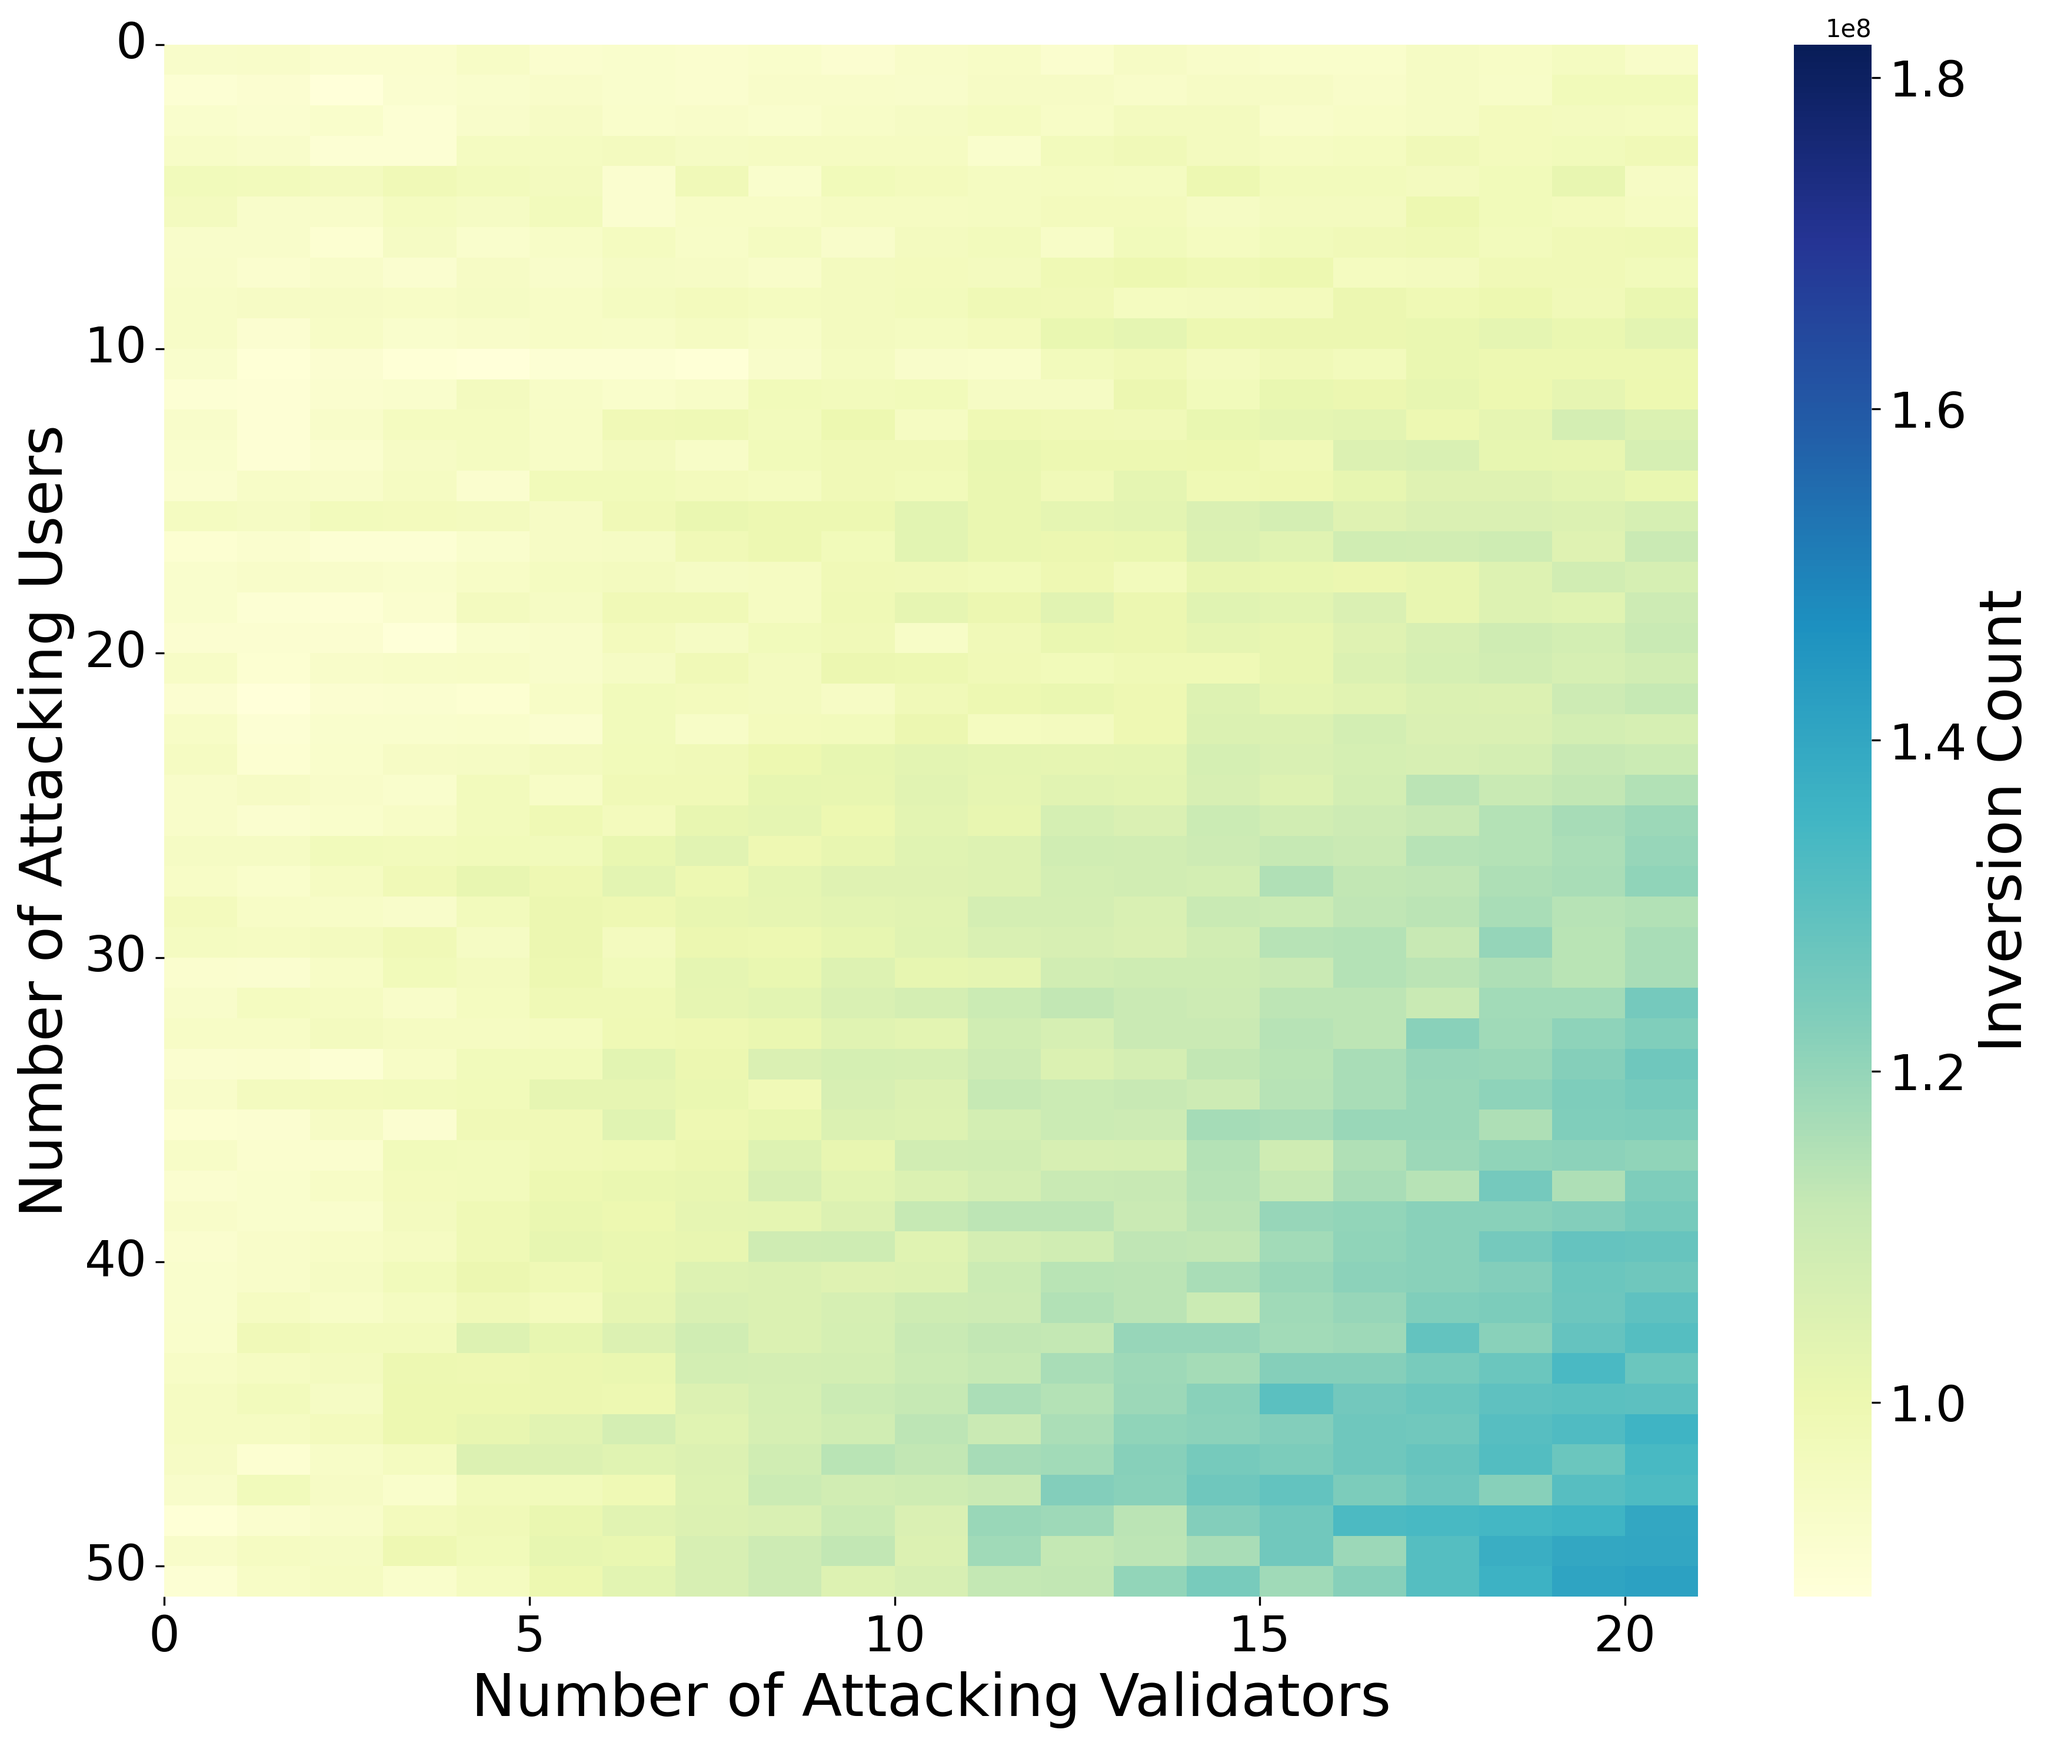
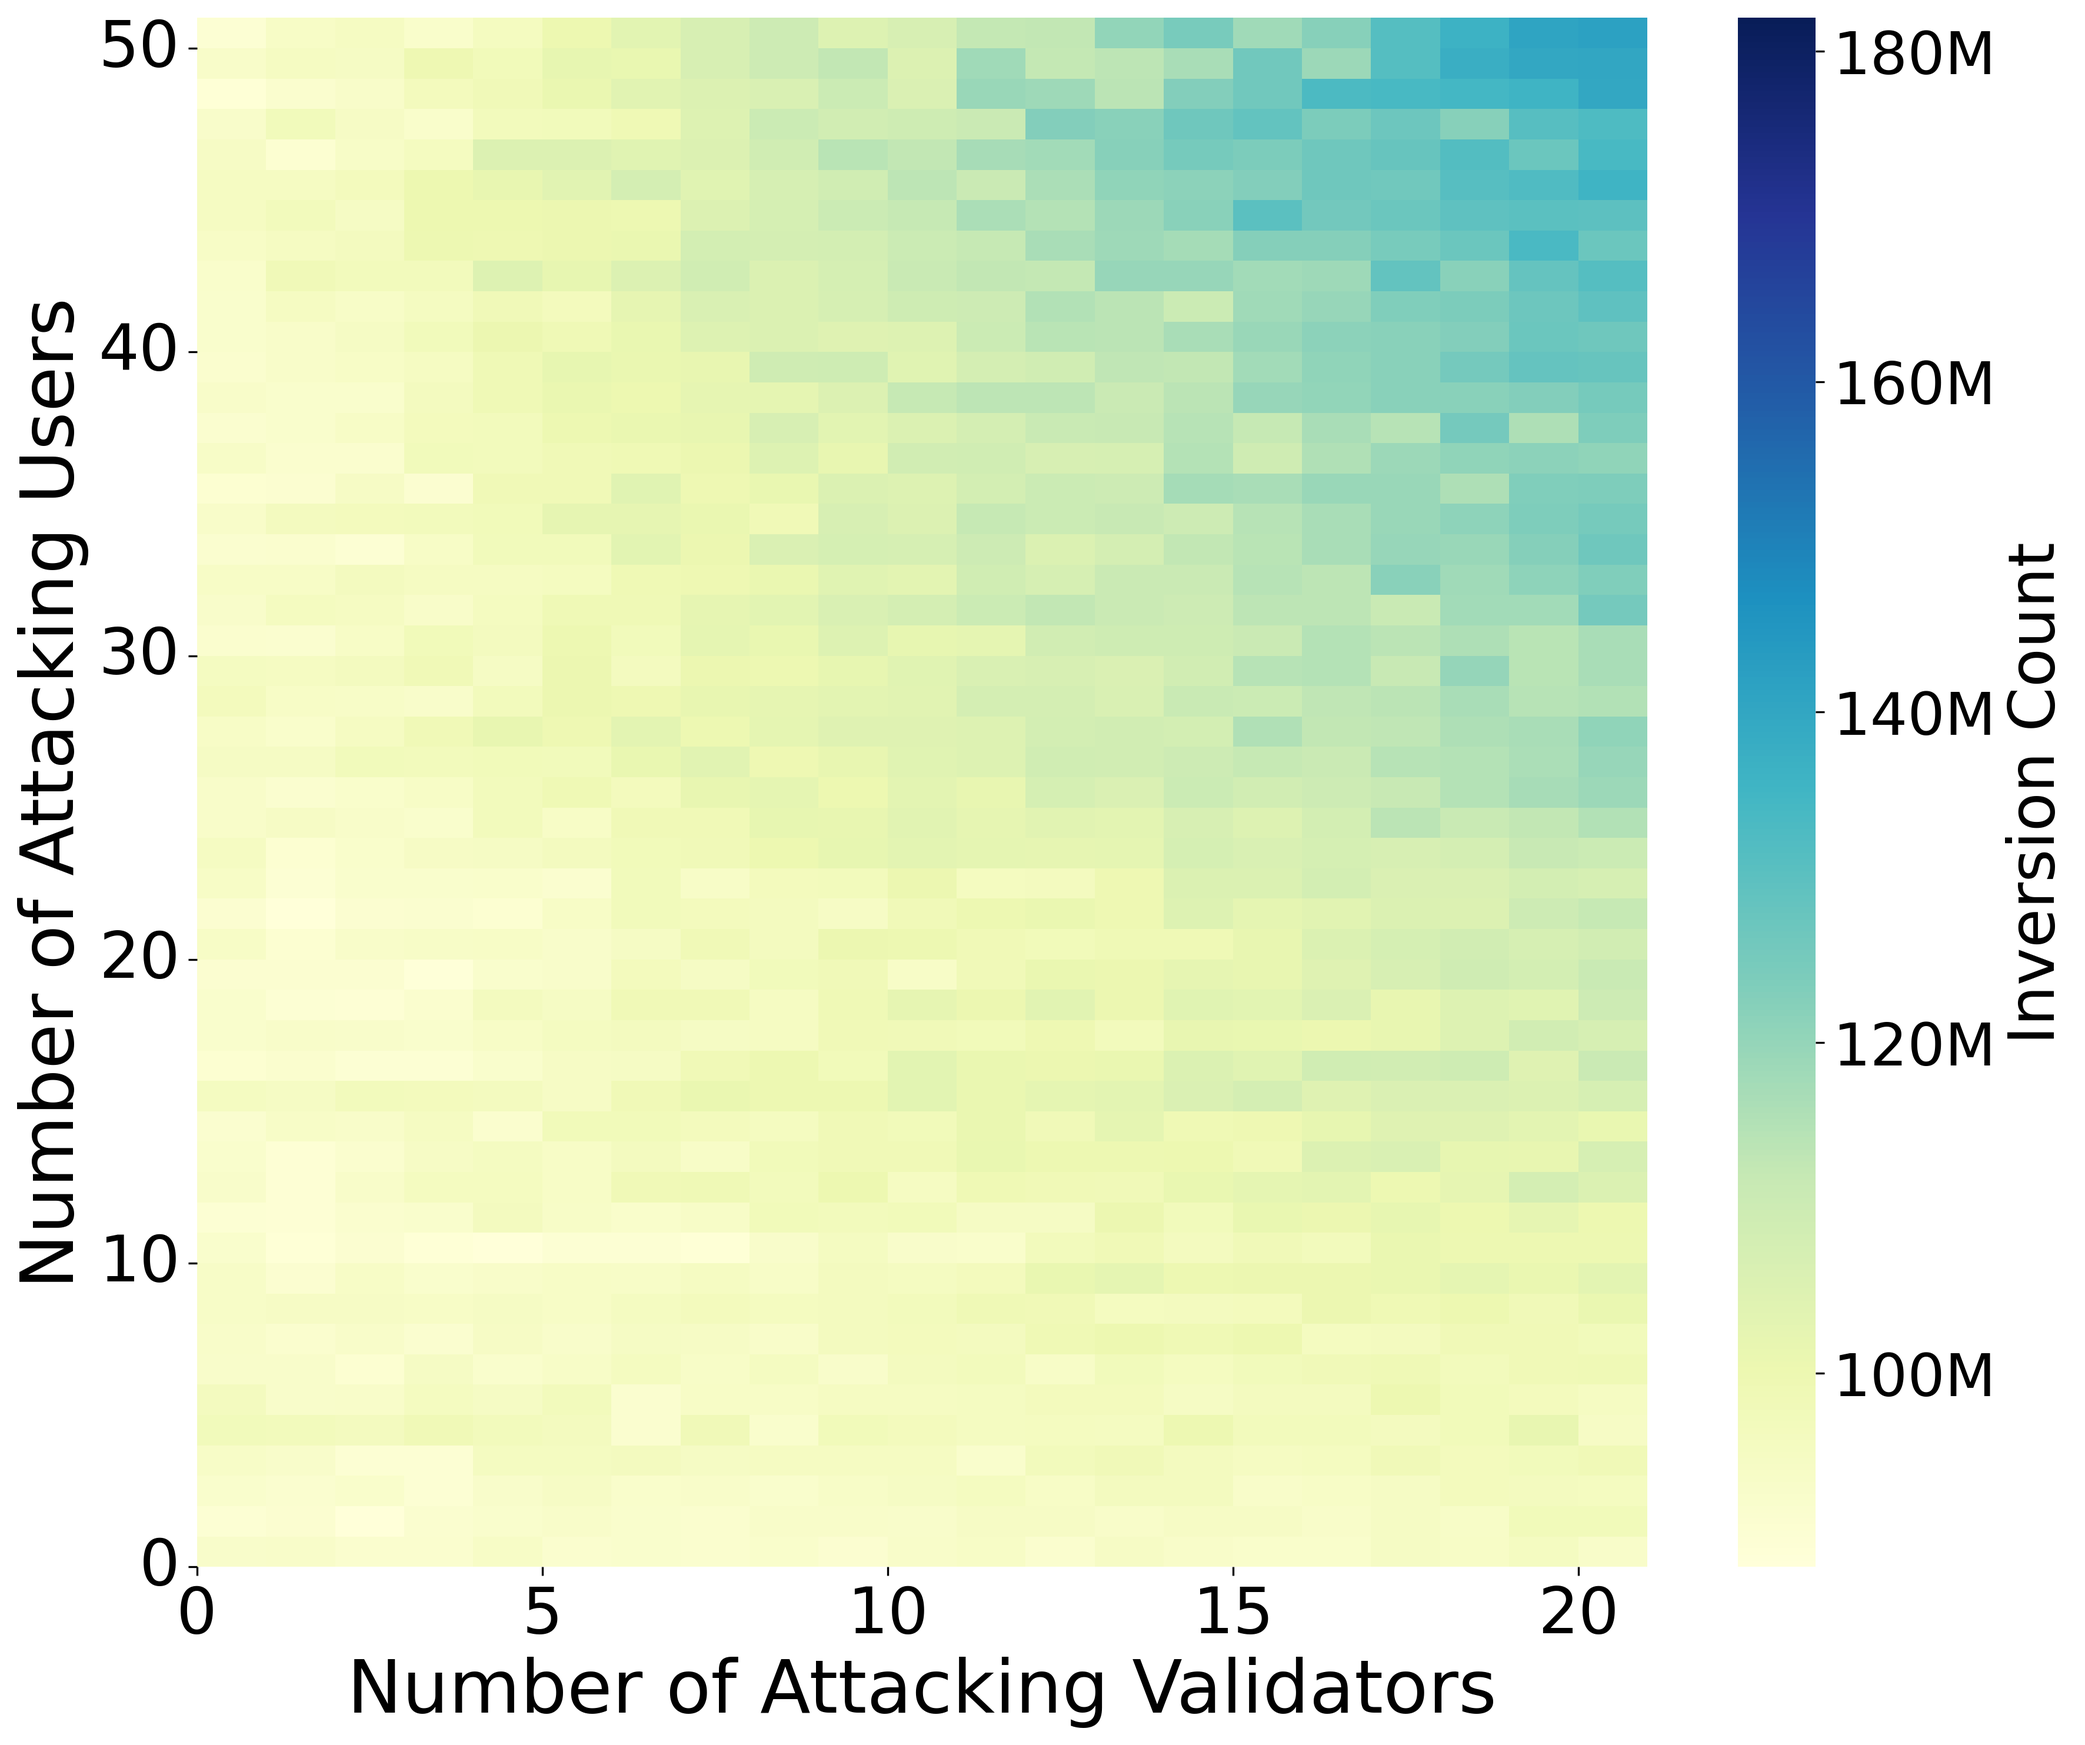
inversion

diff --git a/plots/ss/tx_order.py b/plots/ss/tx_order.py
@@ -4,6 +4,7 @@ import pandas as pd
 import seaborn as sns
 import matplotlib.pyplot as plt
 from collections import defaultdict
+import matplotlib.ticker as ticker
 
 def inversionen(arr):
     """
@@ -122,15 +123,21 @@ def plot_heatmap(results, title, vmin, vmax, output_folder, x_label):
 
     plt.figure(figsize=(12, 10))
     sns.heatmap(df, annot=False, fmt=".0f", cmap="YlGnBu", cbar_kws={'label': "Inversion Count"}, vmin=vmin, vmax=vmax)
-    plt.xlabel(x_label, fontsize=24)
-    plt.ylabel("Number of Attacking Users", fontsize=24)
-    plt.xticks(ticks=[0, 5, 10, 15, 20], labels=[0, 5, 10, 15, 20], fontsize=20)
-    plt.yticks(ticks=[0, 10, 20, 30, 40, 50], labels=[0, 10, 20, 30, 40, 50], fontsize=20)
+    plt.xlabel(x_label, fontsize=30)
+    plt.ylabel("Number of Attacking Users", fontsize=30)
+    plt.xticks(ticks=[0, 5, 10, 15, 20], labels=[0, 5, 10, 15, 20], fontsize=26)
+    plt.yticks(ticks=[0, 10, 20, 30, 40, 50], labels=[0, 10, 20, 30, 40, 50], fontsize=26)
+
+    plt.gca().invert_yaxis()
     
-    # Increase font size of color bar label and ticks
+    # Access the color bar and customize its label and tick size
     cbar = plt.gca().collections[0].colorbar
-    cbar.set_label("Inversion Count", size=24)
-    cbar.ax.tick_params(labelsize=20)
+    cbar.set_label("Inversion Count", size=26)
+    cbar.ax.tick_params(labelsize=24)
+
+    # Format the color bar tick labels to make them more readable, e.g., from 1e8 to 100M
+    cbar.formatter = ticker.FuncFormatter(lambda x, _: f'{int(x / 1e6):,}M')
+    cbar.update_ticks()
 
     plt.tight_layout()
     
